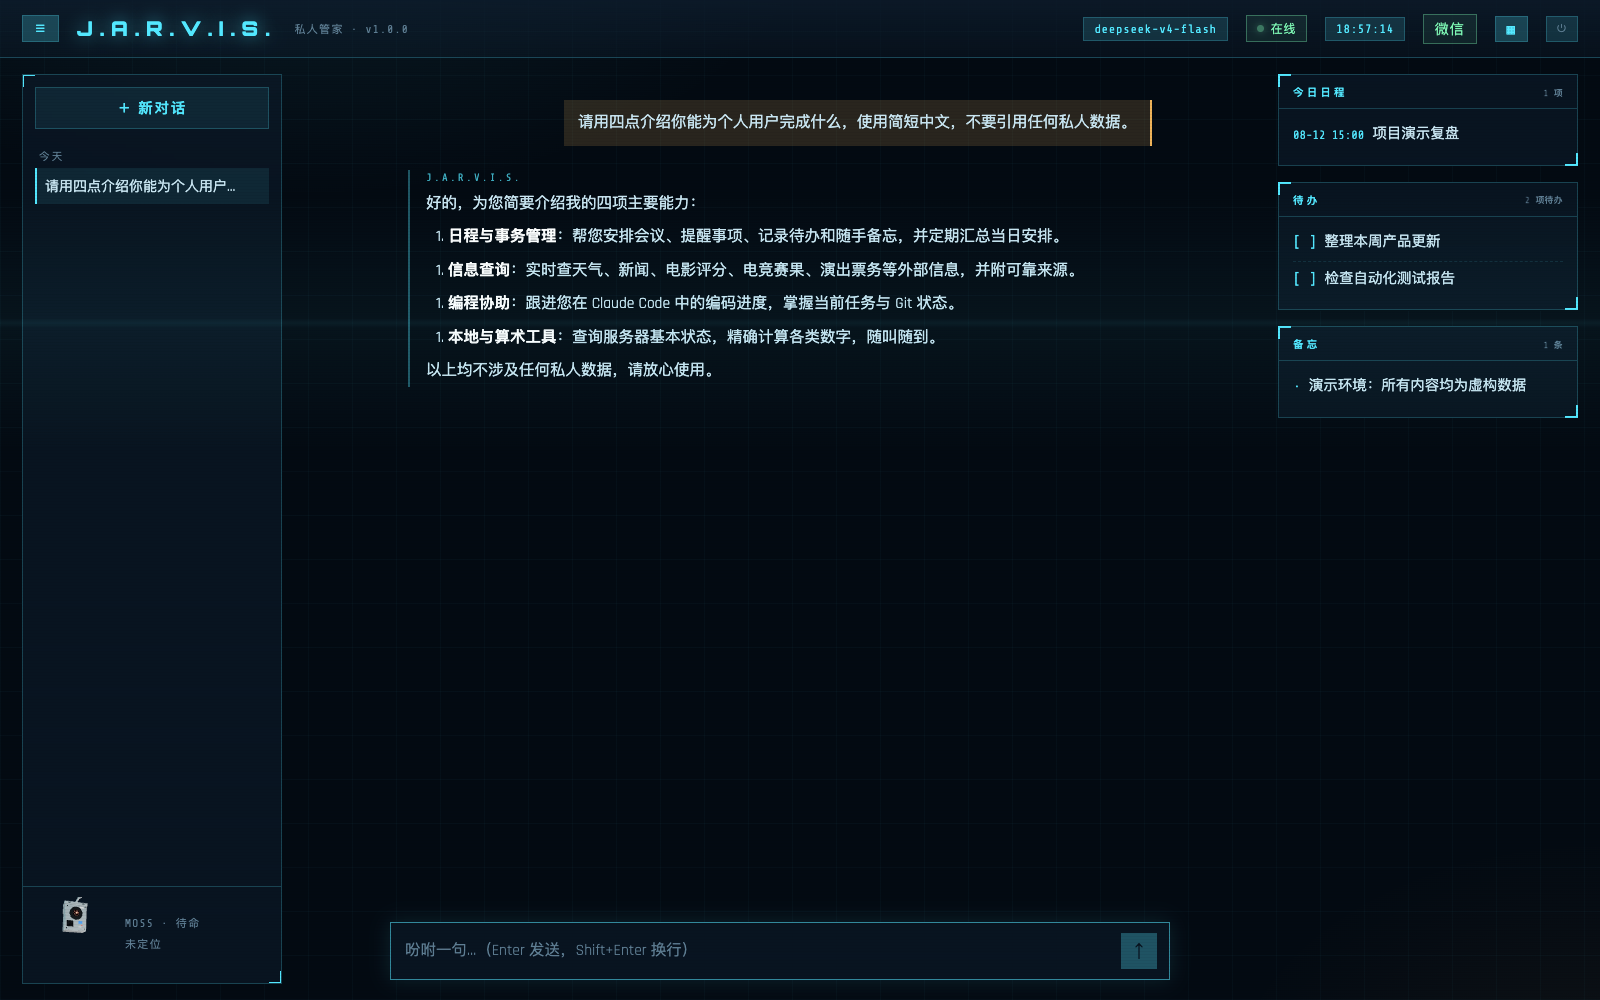
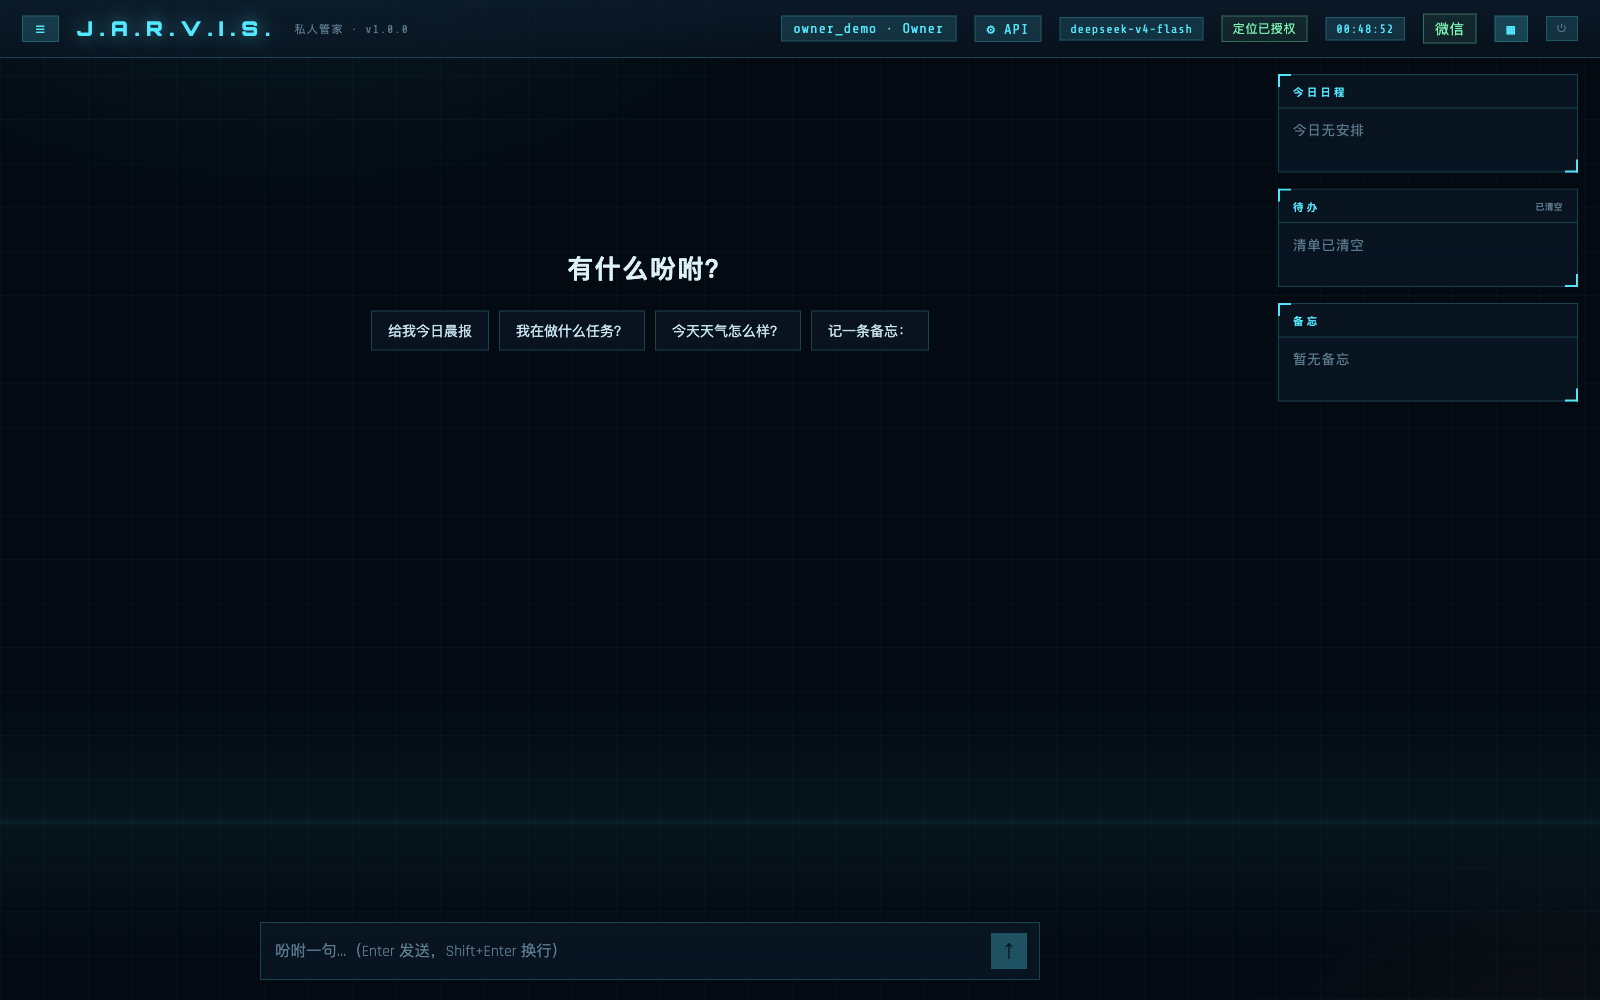
docs: showcase multi-user provider settings

diff --git a/README.md b/README.md
@@ -17,7 +17,7 @@
 
 **[快速开始](#快速开始)**
 
-这是项目维护者的私有部署或演示入口，不是公共 SaaS，也不承诺持续在线；桌面端可在设置中改为你自己的服务器地址。截至 **2026-08-12**，该私有演示部署的 `jarvis-web` 与 SearXNG 均已通过健康状态和 HTTP 可达性验证；SearXNG 仅监听服务器 loopback `127.0.0.1:18888`，不可从公网直接访问，搜索失败时可回退 DDGS。这里的状态说明不代表维护者已经替访问者执行过实时娱乐搜索或验证过任何具体结果。
+这是项目维护者的私有部署或演示入口，不是公共 SaaS，也不承诺持续在线；桌面端可在设置中改为你自己的服务器地址。截至 **2026-08-13**，多用户隔离、Owner 用户管理、每用户 Provider / API 设置、`jarvis-web` 与 SearXNG 已部署并通过最小线上验收；SearXNG 仅监听服务器 loopback `127.0.0.1:18888`，不可从公网直接访问，搜索失败时可回退 DDGS。这里的状态说明不代表维护者已经替访问者执行过实时娱乐搜索或验证过任何具体结果。
 
 > **非商用项目：仅供学习、研究与个人非商业用途。禁止未经授权的商业部署、商业集成、付费分发或收费服务。**
 
@@ -26,6 +26,19 @@
 </div>
 
 ![JWS-Agent 网页端任务台与对话界面](docs/assets/readme/web-dashboard.png)
+
+<table>
+  <tr>
+    <td align="center"><strong>每个账号独立的 Provider / API 设置</strong></td>
+    <td align="center"><strong>Owner 用户管理与角色控制</strong></td>
+  </tr>
+  <tr>
+    <td><img src="docs/assets/readme/web-provider-settings.png" alt="JWS-Agent 网页端 Provider 与 API 设置中心" width="100%"></td>
+    <td><img src="docs/assets/readme/web-account-settings.png" alt="JWS-Agent 网页端 Owner 用户管理界面" width="100%"></td>
+  </tr>
+</table>
+
+以上网页截图来自私有演示部署的真实界面；账户名、定位和其他个人信息已替换为演示内容，API Key、口令、二维码与真实对话均未进入图片。
 
 <table>
   <tr>
@@ -158,7 +171,7 @@ flowchart LR
 ### 实时搜索与正文提取的来源边界
 
 - `SearchService` 默认依次尝试本地 SearXNG、DDGS 和显式配置的可选 Tavily。仓库提供的 SearXNG Compose 只监听 `127.0.0.1:18888`；生产审计发现 8888 已被 BT-Panel 占用，因此改用确认空闲的 18888。未启动或未配置时会自动继续 DDGS。
-- 截至 2026-08-12，私有演示部署的 `jarvis-web` 与 SearXNG 已通过健康状态和 HTTP 可达性验证；这只确认服务链路健康，不代表已经替用户运行 `search_smoke.py --live` 或执行上述娱乐搜索示例。
+- 截至 2026-08-13，私有演示部署的 `jarvis-web`、多用户与 Provider 设置接口、SearXNG 已通过最小线上验收和 HTTP 可达性验证；这只确认服务链路健康，不代表已经替用户运行 `search_smoke.py --live` 或执行上述娱乐搜索示例。
 - 静态正文优先由 Trafilatura 有界提取；只有安装 browser extra 和 Chromium 后，动态页面才可回退 Playwright。提取器限制响应体与输出长度，并拒绝 loopback、私网和其他不安全目标。
 - 每次搜索输出记录查询时间、provider、标题、摘要与有效 HTTP(S) 来源。网页文本被标记为外部资料而不是 Agent 指令，但公开网页仍可能过时或有误；重要信息应打开原始链接复核。
 - `TAVILY_API_KEY` 与 `PANDASCORE_TOKEN` 都可选。PandaScore 配置后可优先提供结构化电竞数据，缺失或失败时回退默认网页搜索链。
@@ -258,6 +271,7 @@ npm start
 - 网页顶栏 **⚙ API** 与桌面端 **设置 → 模型 API** 都可以选择 OpenAI、DeepSeek、阿里云百炼、SiliconFlow 或自定义 OpenAI 兼容 HTTPS 地址。官方 Provider 只接受其官方 API 主机；自定义中转禁止 HTTP、URL 凭据、查询参数和片段。
 - 每个用户只管理自己的模型 Provider、Base URL、模型名和 Key；Owner 额外管理全局 SearXNG、Tavily 与 PandaScore。Member 无法读取或修改其他账号配置，也不能管理全局联网数据源。
 - API Key 永不回显到网页或桌面端。托管设置使用 AES-GCM 加密并按用户、Provider、Origin 与 generation 绑定；每次测试、保存或恢复都要求当前账号口令，修改采用 generation 冲突保护。
+- Provider 设置保存后只影响当前账号的新 Agent 会话；已经打开的网页、桌面窗口或旧登录会话应退出并重新登录，再新建对话验证模型切换。
 - 测试连接会真实发送极少量非流式工具调用、流式文本和流式工具调用，可能产生少量模型费用。第三方中转可读取问题、上下文、工具调用和输出，建议只使用独立、低额度、可吊销的 Key。
 - “恢复环境配置”会切回 `.env` 中的回退 Provider。未同时配置写入开关和主密钥时，设置中心保持只读，原环境配置仍可正常使用。
 
@@ -274,6 +288,7 @@ JARVIS_SETTINGS_WRITE_ENABLED=true
 ## 多用户、备份与回滚
 
 - Owner 可在网页账户设置中修改自己的口令，并创建、停用、改角色或重置 Member/Owner 口令；没有公开注册入口。Member 不会看到用户管理入口，服务端仍会强制 Owner 权限。
+- 从旧版单账号部署升级时，已有网页登录会话会被撤销；请使用迁移后的唯一 Owner 重新登录，并立即把迁移或运维阶段使用的临时兼容口令改成独立强口令。不要在 README、截图、工单或聊天中记录真实账号与口令。
 - 每个账号的 Agent 运行时、对话线程、检查点命名空间、备忘、待办、日程、定位和模型 Provider 都按用户隔离；CLI 与个人微信固定使用唯一 active Owner 的配置。
 - 升级前必须先停止所有 Web、Desktop、CLI 和微信桥进程，再完整复制 `JARVIS_DATA_DIR`。若不能停服，必须对 `jarvis.db` 和 `accounts.sqlite3` 分别使用 SQLite backup API/等价的一致性快照，不得在运行中直接 `cp` SQLite 文件。
 - `jarvis.db` 是 Agent 检查点；`accounts.sqlite3` 是账号/会话/租户元数据。升级前的 `threads.json`、`memos.json`、`todos.json`、`schedule.json`、`location.json`、`local_status.json` 是仅归属 Owner 的 legacy 输入：迁移不改写原文件，并为每个实际存在的文件创建同目录 `0600` 快照 `<原文件名>.tenant-v1.bak`。
